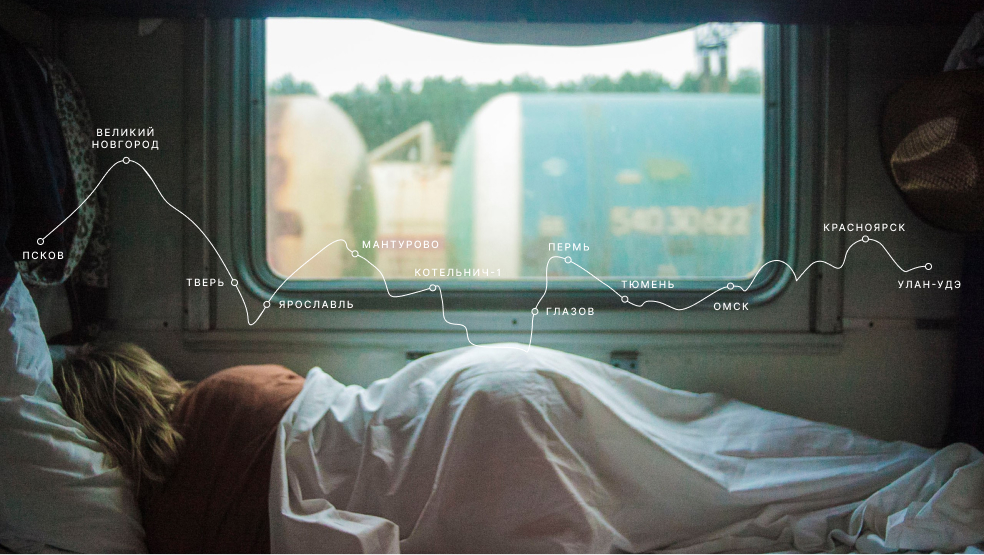
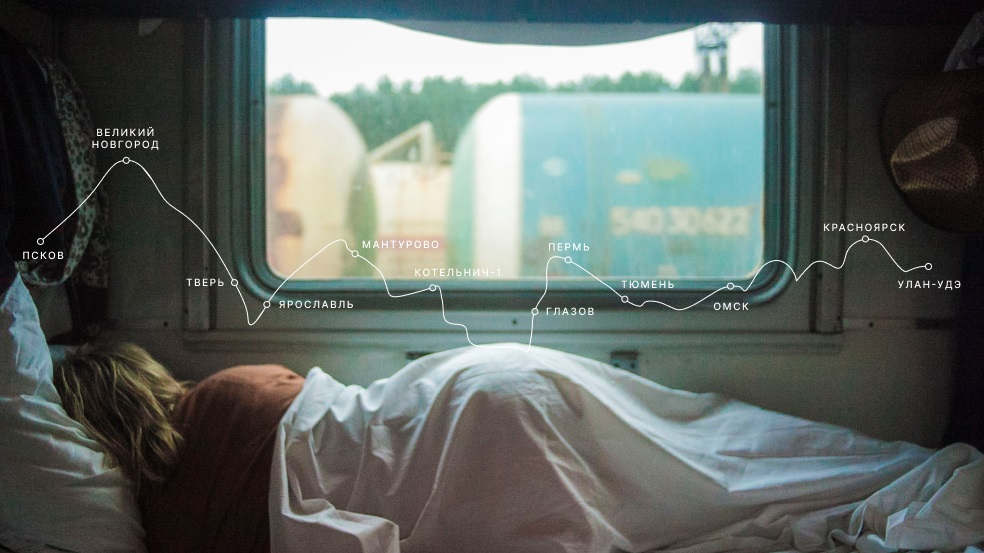
img changed

diff --git a/index.html b/index.html
@@ -37,7 +37,7 @@
             <section class="lead">  
                 <h1 class="lead__title">Путешествия по России</h1>   
                 <h2 class="lead__subtitle">Настоящая страна не в выпусках новостей, а здесь.</h2>  
-                    <img class="lead__image" src="images/__route.jpg" alt="TrainWindow">
+                    <img class="lead__image" src="images/route.jpg" alt="TrainWindow">
                 <p class="lead__caption">ваша полка — верхняя</p>
             </section>
 
